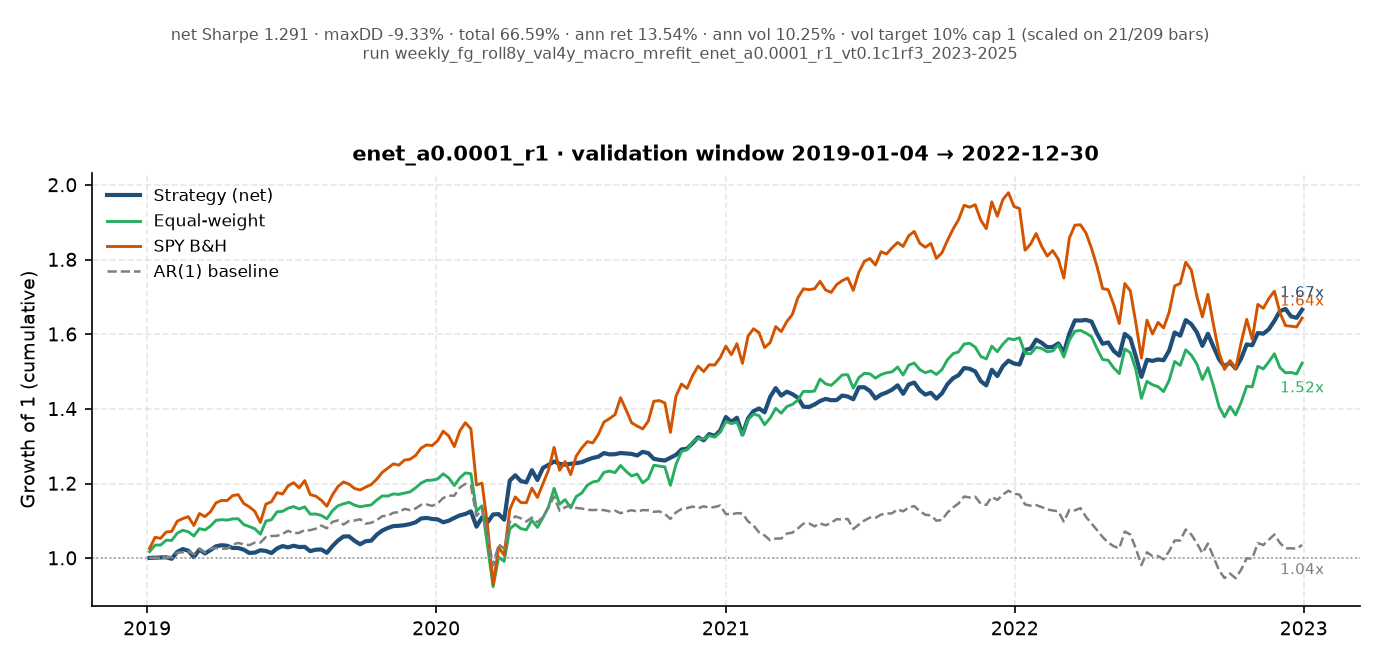
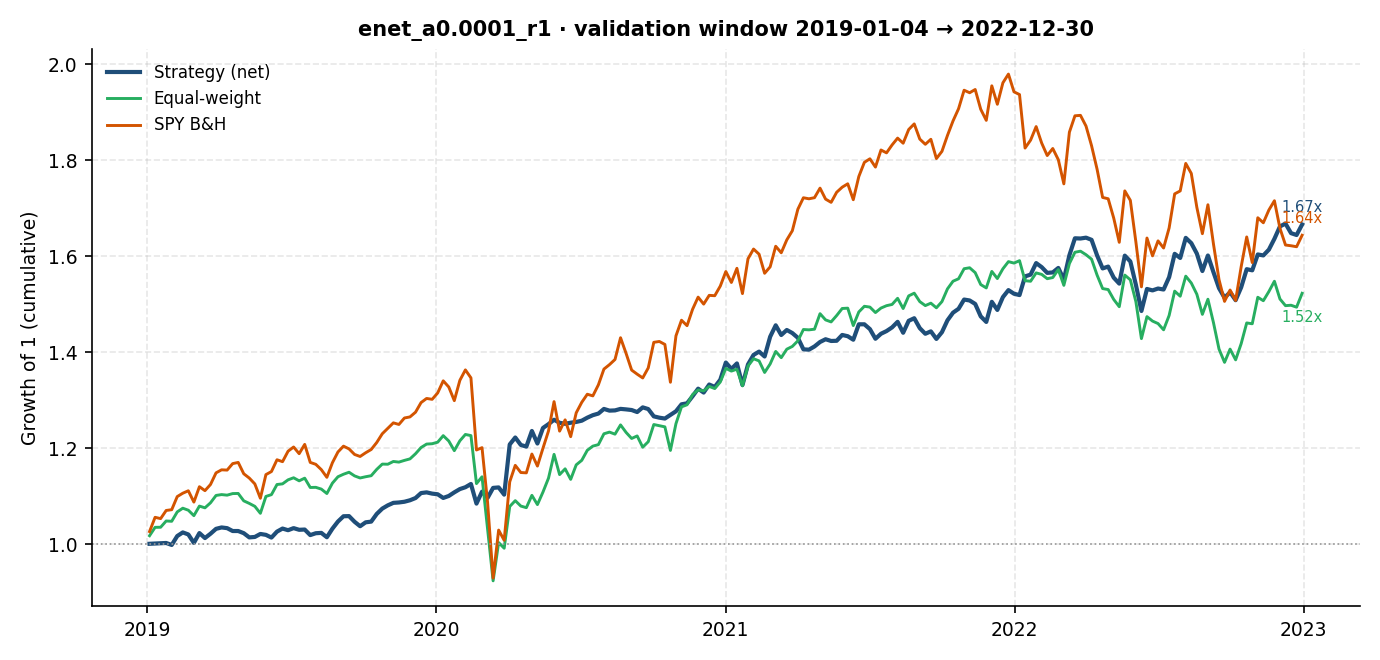
edit image title

diff --git a/src/plots.py b/src/plots.py
@@ -406,8 +406,6 @@ def plot_run(results: dict, out_dir: Path) -> Path:
     out = Path(out_dir) / "plots"
     out.mkdir(parents=True, exist_ok=True)
     selected = results["selected"]
-    run_tag = results["run_tag"]
-    params = results["config"].forecast_vol
     steps = (
         ("01_cumulative_returns", _plot_cumulative_returns),
         ("02_gross_vs_net", _plot_gross_vs_net),
@@ -419,15 +417,11 @@ def plot_run(results: dict, out_dir: Path) -> Path:
         ("08_holdings_counts", _plot_holdings_counts),
         ("09_annual_returns", _plot_annual_returns),
     )
-    for window, book, preds, benchmarks, ppy in _figure_plan(results):
+    for window, book, preds, benchmarks, _ppy in _figure_plan(results):
         header = (f"{selected} · {window} window "
                   f"{book.index.min().date()} → {book.index.max().date()}")
-        # two-line subtitle: headline stats first, run tag second (a single long
-        # line would clip at the figure edges)
-        subtitle = (f"{_stats_line(book, ppy, _overlay_label(book, params))}"
-                    f"\nrun {run_tag}")
         for stem, draw in steps:
-            draw(book, benchmarks, out / f"{window}_{stem}.png", header, subtitle)
+            draw(book, benchmarks, out / f"{window}_{stem}.png", header, "")
         _plot_oos_r2_by_year(preds, results["config"].target_col,
-                             out / f"{window}_10_oos_r2_by_year.png", header, subtitle)
+                             out / f"{window}_10_oos_r2_by_year.png", header, "")
     return out

diff --git a/agents/plots.md b/agents/plots.md
@@ -80,10 +80,10 @@ cache).
 | 09 | `annual_returns` | calendar-year net returns, strategy vs benchmarks + **AR(1) baseline** | year-by-year consistency (vs the OOS R² by year) |
 | 10 | `oos_r2_by_year` | forecast OOS R² per calendar year | the model-quality view behind the book — shows whether signal decayed |
 
-Every PNG is self-contained for a report: header = model + window dates,
-subtitle = net Sharpe / maxDD / total / ann ret / ann vol, the volatility overlay as
-configured and how many bars it actually scaled (e.g. `vol target 20% cap 1 (scaled
-on 4/313 bars)`), plus the run tag.
+Every PNG is self-contained for a report: the visible header is model + window dates.
+The old grey top subtitle with net Sharpe / maxDD / total / ann ret / ann vol,
+volatility overlay details and run tag has been removed so the per-run suite matches
+the cleaner validation-comparison format.
 
 Figures 01, 03 and 09 also carry the **AR(1) baseline** (grey dashed): a per-ticker
 one-lag regression of the forward return on the trailing return, fitted on the same
